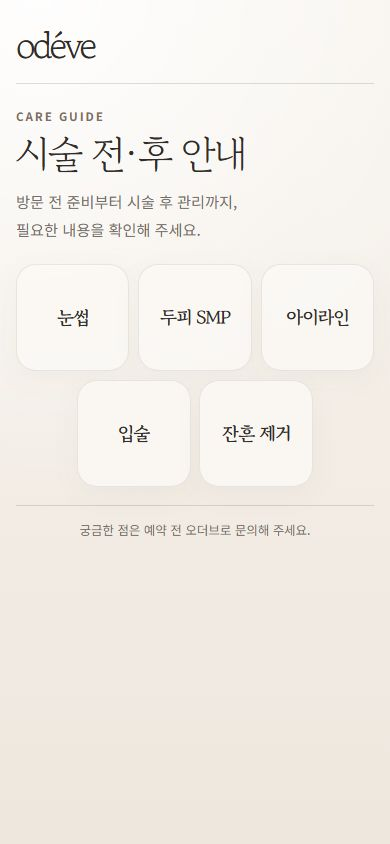
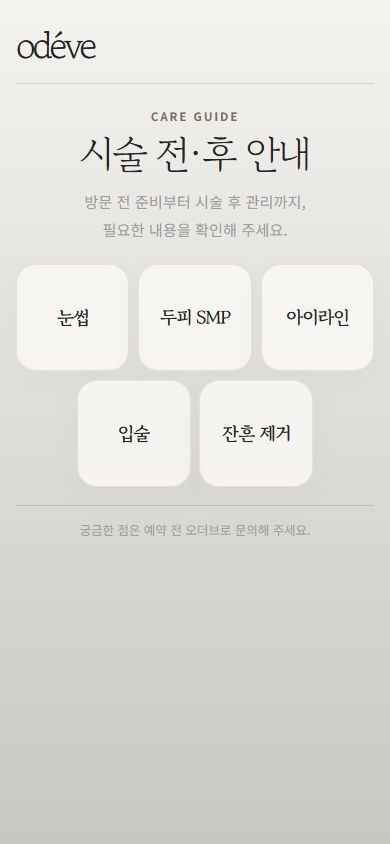
style: refine guide typography and colors

diff --git a/src/styles/global.css b/src/styles/global.css
@@ -1,13 +1,13 @@
 @import url('https://fonts.googleapis.com/css2?family=Gowun+Batang:wght@400;700&family=Noto+Sans+KR:wght@400;500;600;700&display=swap');
 
 :root {
-  color: #302c29;
-  background: #f4f0ea;
+  color: #222523;
+  background: #f5f3ef;
   font-family: 'Noto Sans KR', 'Apple SD Gothic Neo', 'Malgun Gothic', sans-serif;
   font-synthesis: none;
   text-rendering: optimizeLegibility;
-  --ink: #302c29;
-  --muted: #756e68;
+  --ink: #222523;
+  --muted: #9b9b9b;
   --line: rgba(62, 54, 49, 0.16);
   --paper: #fbf9f5;
   --paper-soft: #f0e9e0;
@@ -30,9 +30,7 @@ body {
   min-width: 320px;
   min-height: 100vh;
   margin: 0;
-  background:
-    radial-gradient(circle at 10% 0%, rgba(255, 255, 255, 0.9), transparent 32rem),
-    linear-gradient(180deg, #f7f3ed 0%, #eee7de 100%);
+  background: linear-gradient(180deg, #f5f3ef 0%, #c8c7c3 100%);
 }
 
 body::before {
@@ -116,6 +114,7 @@ img {
 .home-hero {
   padding: clamp(1.35rem, 6vw, 2.35rem) 0 clamp(1.25rem, 5vw, 2rem);
   border-top: 1px solid var(--line);
+  text-align: center;
 }
 
 .eyebrow {
@@ -138,6 +137,7 @@ img {
 
 .home-hero h1 {
   max-width: 11ch;
+  margin-inline: auto;
   font-size: clamp(2.15rem, 10vw, 3.8rem);
   line-height: 1.02;
 }
@@ -147,6 +147,7 @@ img {
   color: var(--muted);
   font-size: clamp(0.95rem, 3vw, 1.12rem);
   line-height: 1.85;
+  text-align: center;
 }
 
 .category-grid {
@@ -332,7 +333,7 @@ img {
 }
 
 .guide-panel__heading {
-  padding: 0.35rem 0 clamp(1.1rem, 4vw, 1.8rem);
+  padding: 0.35rem 0 clamp(0.8rem, 3vw, 1.2rem);
 }
 
 .guide-panel__heading span {
@@ -341,14 +342,6 @@ img {
   font-size: 0.75rem;
   letter-spacing: 0.13em;
   text-transform: uppercase;
-}
-
-.guide-panel__heading h2 {
-  margin: 0.35rem 0 0;
-  font-family: 'Gowun Batang', Georgia, serif;
-  font-size: clamp(1.35rem, 5vw, 2rem);
-  font-weight: 400;
-  letter-spacing: -0.05em;
 }
 
 .guide-images {
@@ -508,10 +501,6 @@ img {
   }
 
   .home-hero {
-    display: grid;
-    grid-template-columns: minmax(0, 1.2fr) minmax(20rem, 0.8fr);
-    align-items: end;
-    gap: 3rem;
     padding: clamp(2.5rem, 5vw, 4rem) 0 clamp(1.5rem, 3vw, 2.5rem);
   }
 
@@ -548,19 +537,8 @@ img {
     font-size: clamp(4rem, 7.5vw, 7rem);
   }
 
-  .home-hero .eyebrow,
-  .home-hero h1 {
-    grid-column: 1;
-  }
-
-  .home-hero h1 {
-    grid-row: 2;
-  }
-
   .home-hero__description {
-    grid-column: 2;
-    grid-row: 2;
-    margin-bottom: 0.5rem;
+    margin-top: 1.2rem;
   }
 
   .category-grid {

diff --git a/src/App.test.tsx b/src/App.test.tsx
@@ -15,6 +15,18 @@ describe('application routes', () => {
     expect(screen.getByRole('heading', { name: '입술' })).toBeInTheDocument()
   })
 
+  it('keeps guide details focused on the original image without repeated Korean copy', () => {
+    render(
+      <MemoryRouter initialEntries={['/guide/smp']}>
+        <App />
+      </MemoryRouter>,
+    )
+
+    expect(screen.queryByText('두피 시술의 착색과 회복을 위한 관리')).not.toBeInTheDocument()
+    expect(screen.queryByRole('heading', { name: '시술 전 안내사항' })).not.toBeInTheDocument()
+    expect(screen.getByText('Before care')).toBeInTheDocument()
+  })
+
   it('shows a recovery page for an unknown guide URL', () => {
     render(
       <MemoryRouter initialEntries={['/guide/unknown']}>

diff --git a/src/pages/GuidePage.tsx b/src/pages/GuidePage.tsx
@@ -34,7 +34,6 @@ export function GuidePage() {
         <header className="guide-heading">
           <p className="eyebrow">{category.englishName}</p>
           <h1>{category.name}</h1>
-          <p>{category.description}</p>
         </header>
         <SectionTabs
           sections={category.sections}
@@ -52,7 +51,6 @@ export function GuidePage() {
         >
           <div className="guide-panel__heading">
             <span>{activeSection.eyebrow}</span>
-            <h2>{activeSection.label} 안내사항</h2>
           </div>
           <div className="guide-images">
             {activeSection.images.map((image) => (

diff --git a/docs/superpowers/specs/2026-09-03-odeve-care-guide-design.md b/docs/superpowers/specs/2026-09-03-odeve-care-guide-design.md
@@ -17,6 +17,7 @@
 ### 홈
 
 - `odéve` 브랜드명과 고객 안내 문구를 표시한다.
+- `CARE GUIDE`, `시술 전·후 안내`, 소개 문구를 모든 화면 크기에서 가운데 정렬한다.
 - 눈썹, 두피 SMP, 아이라인, 입술, 잔흔 제거의 다섯 카테고리를 카드로 제공한다.
 - 각 카드는 간단한 영문 표기와 포함된 안내 종류를 보여준다.
 - 320px 수준의 소형 스마트폰부터 대형 스마트폰, 폴더블, 태블릿, 데스크톱까지 고정 기기명이 아닌 가용 화면 너비를 기준으로 자연스럽게 재배치한다.
@@ -28,6 +29,8 @@
 ### 카테고리 상세
 
 - 카테고리명, 홈으로 돌아가기 버튼, 시술 전·후 탭을 제공한다.
+- 카테고리 제목 아래 설명 문구는 표시하지 않는다.
+- 이미지 위에는 `BEFORE CARE`, `AFTER CARE` 등의 영문 구분만 남기고 `시술 전 안내사항`, `시술 후 안내사항` 같은 반복 한글 제목은 표시하지 않는다.
 - 선택한 탭에 해당하는 원본 안내 이미지를 화면 너비에 맞춰 표시한다.
 - 이미지를 누르면 전체 화면에 가깝게 확대하여 볼 수 있고 닫기 버튼과 배경 클릭으로 닫을 수 있다.
 - 직접 URL 접속, 새로고침, 브라우저 뒤로가기가 정상 동작한다.
@@ -49,7 +52,8 @@
 ## 시각 디자인
 
 - 원본 이미지의 밝은 아이보리 질감과 회갈색 타이포그래피를 이어가는 차분하고 미니멀한 분위기
-- 배경은 따뜻한 아이보리, 본문은 진한 차콜, 강조색은 뮤트 브라운을 사용
+- 배경은 위쪽 `#F5F3EF`에서 아래쪽 `#C8C7C3`으로 이어지는 그라데이션을 사용
+- 진한 글자색은 `#222523`, 연한 글자색은 `#9B9B9B`를 사용
 - 과한 애니메이션 없이 카드와 화면 전환에 짧고 은은한 효과만 적용
 - iPhone Safari, Android Chrome, iOS·Android 카카오톡 인앱 브라우저를 우선 지원하며 최소 44px 터치 영역과 노치·홈 인디케이터 안전영역 여백을 적용
 - 세로·가로 회전, 브라우저 글자 확대, 긴 화면과 짧은 화면에서도 콘텐츠가 잘리거나 겹치지 않는 유동형 레이아웃 적용

diff --git a/docs/qa/responsive-qa.md b/docs/qa/responsive-qa.md
@@ -16,6 +16,7 @@
 | 320×568 | 홈 | 3개+2개 메뉴가 첫 화면 안에 표시, 가로 스크롤 없음 |
 | 360×800 | 입술 상세 | 탭 가로 스크롤, 원본 이미지 비율 유지, 가로 스크롤 없음 |
 | 390×844 | 홈 | 3개+2개 메뉴가 첫 화면 안에 표시, 전체 터치 영역 정상 |
+| 390×844 | 두피 SMP 상세 | 제목 아래 설명과 반복 한글 안내 제목 제거, 영문 구분 및 원본 이미지 정상 |
 | 430×932 | 입술 상세 | 탭 전환, 안내 이미지 및 확대 버튼 정상 |
 | 768×1024 | 홈 | 간결한 3개+2개 메뉴, 영문명 잘림 없음 |
 | 1024×1366 | 입술 회복 과정 | 좌측 탐색·우측 세로 이미지 배치 정상 |
@@ -28,6 +29,7 @@
 - `screenshots/home-320x568.png`
 - `screenshots/lip-360x800.png`
 - `screenshots/home-390x844.png`
+- `screenshots/smp-390x844.png`
 - `screenshots/lip-430x932.png`
 - `screenshots/home-768x1024.png`
 - `screenshots/lip-1024x1366.png`
@@ -37,3 +39,10 @@
 ## 기기 대응 기준
 
 화면은 특정 기기 이름이나 해상도에 고정하지 않고 CSS Grid, `clamp()`, 최대 콘텐츠 너비, 안전영역 환경 변수를 사용한다. 따라서 iPhone, Android 스마트폰, 폴더블, iPad, Galaxy Tab의 중간 너비에서도 콘텐츠가 사용 가능한 공간에 맞춰 유동적으로 재배치된다.
+
+## 2026-09-03 시각 사양 갱신
+
+- 홈 타이틀 영역 가운데 정렬 확인
+- 배경 `#F5F3EF → #C8C7C3` 그라데이션 확인
+- 진한 글자 `#222523`, 연한 글자 `#9B9B9B` 확인
+- 상세 페이지의 카테고리 설명과 반복 한글 안내 제목이 렌더링되지 않는 것 확인
